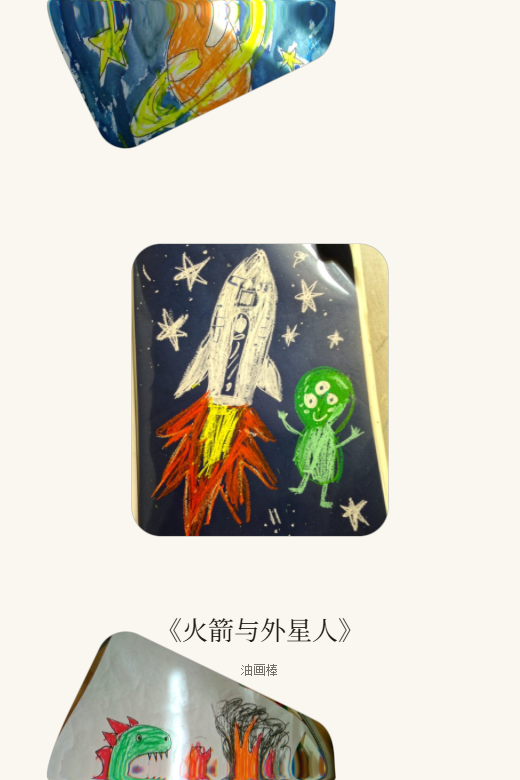
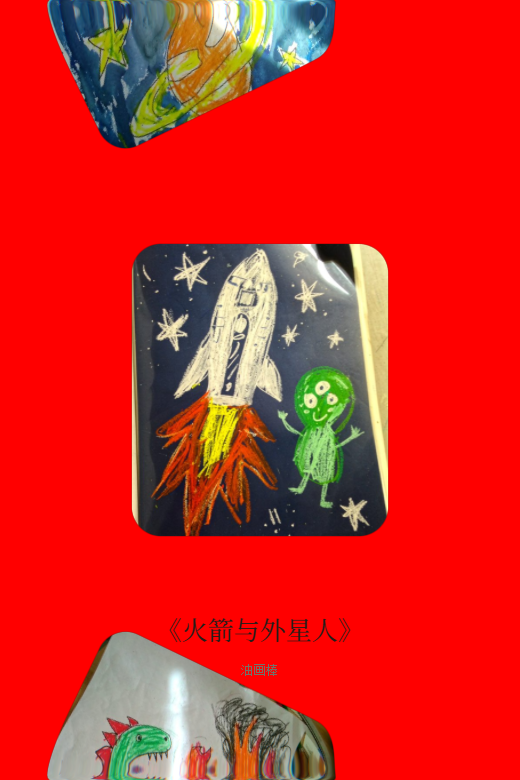
update

diff --git a/testing-example/tutuhuahua 2.0/tools/shot-states.py b/testing-example/tutuhuahua 2.0/tools/shot-states.py
@@ -41,8 +41,10 @@ CHROME_CANDIDATES = [
 SETTLE_FRAMES = 40
 
 # 「转圈中」:转圈起点之后再走多少帧才按快门。
-# opacity 区间方案(headless 下每帧真实耗时飘忽,经常错过窗口)不稳,
-# 改回固定帧数。MID=8 帧 ≈ 130ms 真实时间,字标正进入淡出中段
+# 注意:chrome --screenshot 命令行模式是在 **virtual-time-budget 用尽时**
+# 才拍图,不是我们的 done() 触发时。所以 mid 模式在命令行下无法截到
+# 真正的"中段"——需要走 CDP 才能精确控制截图时机。
+# 这里保留 MID_FRAMES 兜底,正式启用需要走 CDP。
 MID_FRAMES = 8
 
 
@@ -108,9 +110,6 @@ def hook(state):
     function done() {{
       var s = stage();
       s.setAttribute("data-shot", "ready");
-      // 调试:done 时把页面底色染红,看截图是不是真在 done 时拍的
-      document.documentElement.style.background = "#ff0000";
-      document.body && (document.body.style.background = "#ff0000");
       try {{ console.log("SHOT_BEAT", s.getAttribute("data-shot-beat")); }} catch (e) {{}}
     }}
     window.addEventListener("load", function () {{{body}
@@ -213,7 +212,7 @@ def main():
     ap.add_argument("--chrome", default=None)
     ap.add_argument("--width", type=int, default=1000, help="桌面视口宽")
     ap.add_argument("--height", type=int, default=640, help="桌面视口高")
-    ap.add_argument("--only", choices=["desktop", "mobile", "mid"], default=None)
+    ap.add_argument("--only", choices=["desktop", "mobile"], default=None)
     ap.add_argument("--budget", type=int, default=200000)
     ap.add_argument("--debug", action="store_true", help="mid 模式只 dump DOM 不截图")
     args = ap.parse_args()
@@ -222,21 +221,12 @@ def main():
     if not chrome:
         sys.exit("找不到 Chrome / Edge。用 --chrome 指定,或设 CHROME_PATH。")
 
-    # 「转圈中」是开场中段的一瞬,只有一张,且必须跑真实时间线(慢),
-    # 所以单独一个分支、默认只用较小的视口
+    # 「转圈中」模式:chrome --screenshot 命令行模式是在 budget 用尽时拍,
+    # 不是我们的 done() 触发时,所以无法精确截到入场动画中段。需要走
+    # CDP 才能精确控制截图时机 —— 这里先把这个分支拿掉,等真要截中段时
+    # 再单独写一个 cdp-shot.py
     if args.only == "mid":
-        print("  拍 转圈中(环已转起来、字标正在淡出)...", end="", flush=True)
-        if args.debug:
-            dom = shoot(chrome, "mid", args.width, args.height, args.budget, 900, debug=True)
-            # 抓 data-shot-beat,看出当时跑到哪一拍
-            import re as _re
-            m = _re.search(r'data-shot-beat="([^"]+)"', dom or "")
-            beat = m.group(1) if m else "无(说明 data-shot=\"ready\" 都没写出来)"
-            print(f" 拍到的节拍:{beat}")
-            return 0 if beat != "无(说明 data-shot=\"ready\" 都没写出来)" else 1
-        png = shoot(chrome, "mid", args.width, args.height, args.budget, 900)
-        print(f" {png.stat().st_size // 1024} KB" if png else " 没拍出来")
-        return 0 if png else 1
+        sys.exit("--only mid 暂时停用,需 CDP 方案")
 
     views = []
     if args.only != "mobile":
